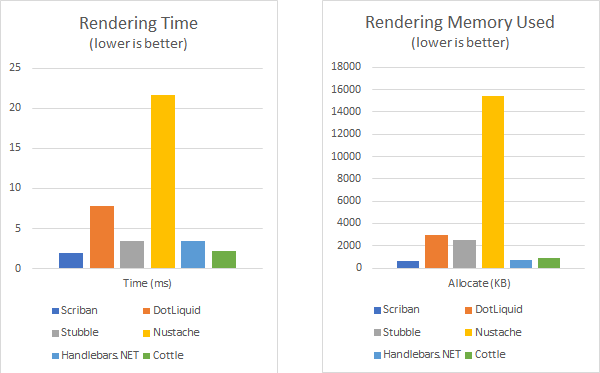
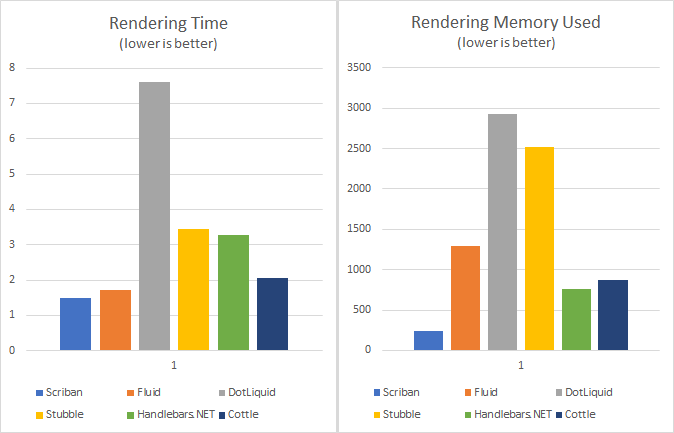
Update benchmarks

diff --git a/doc/benchmarks.md b/doc/benchmarks.md
@@ -1,13 +1,13 @@
 # Benchmarks
 
-Latest benchmark update: 24 October 2017
+Latest benchmark update: 4 November 2017
 
 This is a simple, non-exhaustive benchmark that should highlight how fast and lightweight Scriban parser and runtime is.
 
 > NOTE: This is a micro benchmark, so results may vary vastly on use cases. The goal here is to demonstrate on a very simple example how the different engines behave
 > Also, Scriban has not been optimized for this particular scenario tested here and little has been done so far to optimize the runtime, so even if Scriban is already blazing fast, there is no doubt that it can still be improved!
 
-While Scriban is compared here to `liquid` and `mustache` like templating engines, you should also keep in mind that language-wise, Scriban is allowing more language constructions/expressions.
+While Scriban is compared here to `liquid` and `mustache` like templating engines, you should also keep in mind that language-wise, Scriban is allowing a lot more language constructions/expressions.
 
 The benchmark was performed on two aspects of the libraries:
 
@@ -16,10 +16,11 @@ The benchmark was performed on two aspects of the libraries:
 
 Libraries used in this comparison:
 
-- Scriban (0.9.0), Syntax: Scriban
+- Scriban (0.11.0), Syntax: Scriban
+- [Fluid](https://github.com/sebastienros/fluid/) (Fluid.Core.1.0.0-beta-9334), Syntax: Liquid based
 - [DotLiquid](https://github.com/dotliquid/dotliquid) (2.0.200), Syntax: Liquid based
-- [Nustache](https://github.com/jdiamond/Nustache) (1.16.0.4), Syntax: Mustache based
 - [Stubble](https://github.com/StubbleOrg/Stubble) (1.0.42-alpha17), Syntax: Mustache+ based
+- [Nustache](https://github.com/jdiamond/Nustache) (1.16.0.4), Syntax: Mustache based
 - [Handlebars.NET](https://github.com/rexm/Handlebars.Net) (1.9.0), Syntax: Handlebars based
 - [Cottle](https://github.com/r3c/cottle) (1.4.0.4), Syntax: Cottle
 
@@ -30,8 +31,15 @@ See the [Scriban.Benchmark/Program.cs](../src/Scriban.Benchmarks/Program.cs) for
 [:top:](#benchmarks)
 ## Overall results
 
-- **Scriban is 1.2x to x10 times faster** than other templating engines
-- **Scriban is 1.5x to 30x more memory efficient** both at parsing and runtime time, than other templating engines (except with Handlebars.NET at rendering time which is on par)
+For the parser part:
+
+- **Scriban parser is 3x to 6x times** faster compared to liquid based templating parsers
+- **Scriban parser takes 3x to 40x times less memory** compared to other templating parsers
+
+For the rendering part:
+
+- **Scriban is 1.2x to x14 times faster** than other templating engines
+- **Scriban takes 3x to x65 times less memory** compared to other templating engines
 
 In the following sections, you will find benchmark details.
 
@@ -104,15 +112,15 @@ Processor=Intel Core i7-7700K CPU 4.20GHz (Kaby Lake), ProcessorCount=8
   [Host]     : .NET Framework 4.7 (CLR 4.0.30319.42000), 32bit LegacyJIT-v4.7.2556.0
   DefaultJob : .NET Framework 4.7 (CLR 4.0.30319.42000), 32bit LegacyJIT-v4.7.2556.0
 
-
-                    Method |        Mean |     Error |    StdDev |   Gen 0 |  Gen 1 | Allocated |
--------------------------- |------------:|----------:|----------:|--------:|-------:|----------:|
-        'Scriban - Parser' |    10.59 us | 0.0624 us | 0.0521 us |  0.6104 |      - |   2.54 KB |
-      'DotLiquid - Parser' |    71.45 us | 1.1307 us | 1.0024 us |  2.1973 |      - |   9.47 KB |
-        'Stubble - Parser' |    12.29 us | 0.0982 us | 0.0918 us |  1.6327 |      - |   6.74 KB |
-       'Nustache - Parser' |    53.98 us | 0.1557 us | 0.1300 us |  4.0894 |      - |  16.84 KB |
- 'Handlebars.NET - Parser' | 1,005.38 us | 6.5709 us | 5.8250 us | 25.3906 | 1.9531 | 106.81 KB |
-         'Cottle - Parser' |    13.54 us | 0.0456 us | 0.0426 us |  1.7090 |      - |   7.02 KB |
+                    Method |      Mean |     Error |    StdDev |   Gen 0 |  Gen 1 | Allocated |
+-------------------------- |----------:|----------:|----------:|--------:|-------:|----------:|
+        'Scriban - Parser' |  12.07 us | 0.0271 us | 0.0253 us |  0.6561 |      - |   2.71 KB |
+          'Fluid - Parser' |  27.30 us | 0.1435 us | 0.1272 us |  3.8147 |      - |  15.63 KB |
+      'DotLiquid - Parser' |  70.19 us | 0.0828 us | 0.0646 us |  2.1973 |      - |   9.47 KB |
+        'Stubble - Parser' |  12.16 us | 0.0267 us | 0.0250 us |  1.6327 |      - |   6.74 KB |
+       'Nustache - Parser' |  54.01 us | 0.2199 us | 0.2057 us |  4.0894 |      - |  16.84 KB |
+ 'Handlebars.NET - Parser' | 997.00 us | 2.0396 us | 1.7031 us | 25.3906 | 1.9531 | 106.81 KB |
+         'Cottle - Parser' |  13.40 us | 0.0666 us | 0.0623 us |  1.7090 |      - |   7.02 KB |
 
 // * Legends *
   Mean      : Arithmetic mean of all measurements
@@ -136,12 +144,13 @@ The methodology is to use the previously compiled script and use it with a list 
 ```
      Method |      Mean |     Error |    StdDev |     Gen 0 |   Gen 1 |   Gen 2 |   Allocated |
 ----------- |----------:|----------:|----------:|----------:|--------:|--------:|------------:|
-    Scriban |  1.976 ms | 0.0069 ms | 0.0062 ms |  148.4375 | 27.3438 | 27.3438 |   647.41 KB |
-  DotLiquid |  7.810 ms | 0.0460 ms | 0.0408 ms |  687.5000 | 31.2500 | 23.4375 |  2923.73 KB |
-    Stubble |  3.507 ms | 0.0274 ms | 0.0256 ms |  593.7500 | 39.0625 | 27.3438 |  2522.75 KB |
-   Nustache | 21.598 ms | 0.2369 ms | 0.1978 ms | 3718.7500 |       - |       - | 15444.73 KB |
- Handlebars |  3.404 ms | 0.0236 ms | 0.0209 ms |  171.8750 | 31.2500 | 27.3438 |   766.34 KB |
-     Cottle |  2.267 ms | 0.0159 ms | 0.0149 ms |  175.7813 | 85.9375 | 27.3438 |   900.33 KB |
+    Scriban |  1.493 ms | 0.0020 ms | 0.0017 ms |   58.5938 | 29.2969 | 29.2969 |   238.63 KB |
+      Fluid |  1.707 ms | 0.0042 ms | 0.0037 ms |  292.9688 | 29.2969 | 29.2969 |  1287.34 KB |
+  DotLiquid |  7.614 ms | 0.0883 ms | 0.0826 ms |  687.5000 | 31.2500 | 23.4375 |  2923.73 KB |
+    Stubble |  3.440 ms | 0.0118 ms | 0.0099 ms |  593.7500 | 39.0625 | 27.3438 |  2522.75 KB |
+   Nustache | 21.250 ms | 0.0736 ms | 0.0689 ms | 3718.7500 |       - |       - | 15444.73 KB |
+ Handlebars |  3.265 ms | 0.0052 ms | 0.0046 ms |  171.8750 | 31.2500 | 27.3438 |   766.34 KB |
+     Cottle |  2.046 ms | 0.0041 ms | 0.0038 ms |  179.6875 | 85.9375 | 27.3438 |   875.04 KB |
  ```
 
 Note that for Stubble, It was not possible to match the behavior of the other engines, so it is including the parsing time (which is anyway insignificant compare to the rendering time in this particular case)
